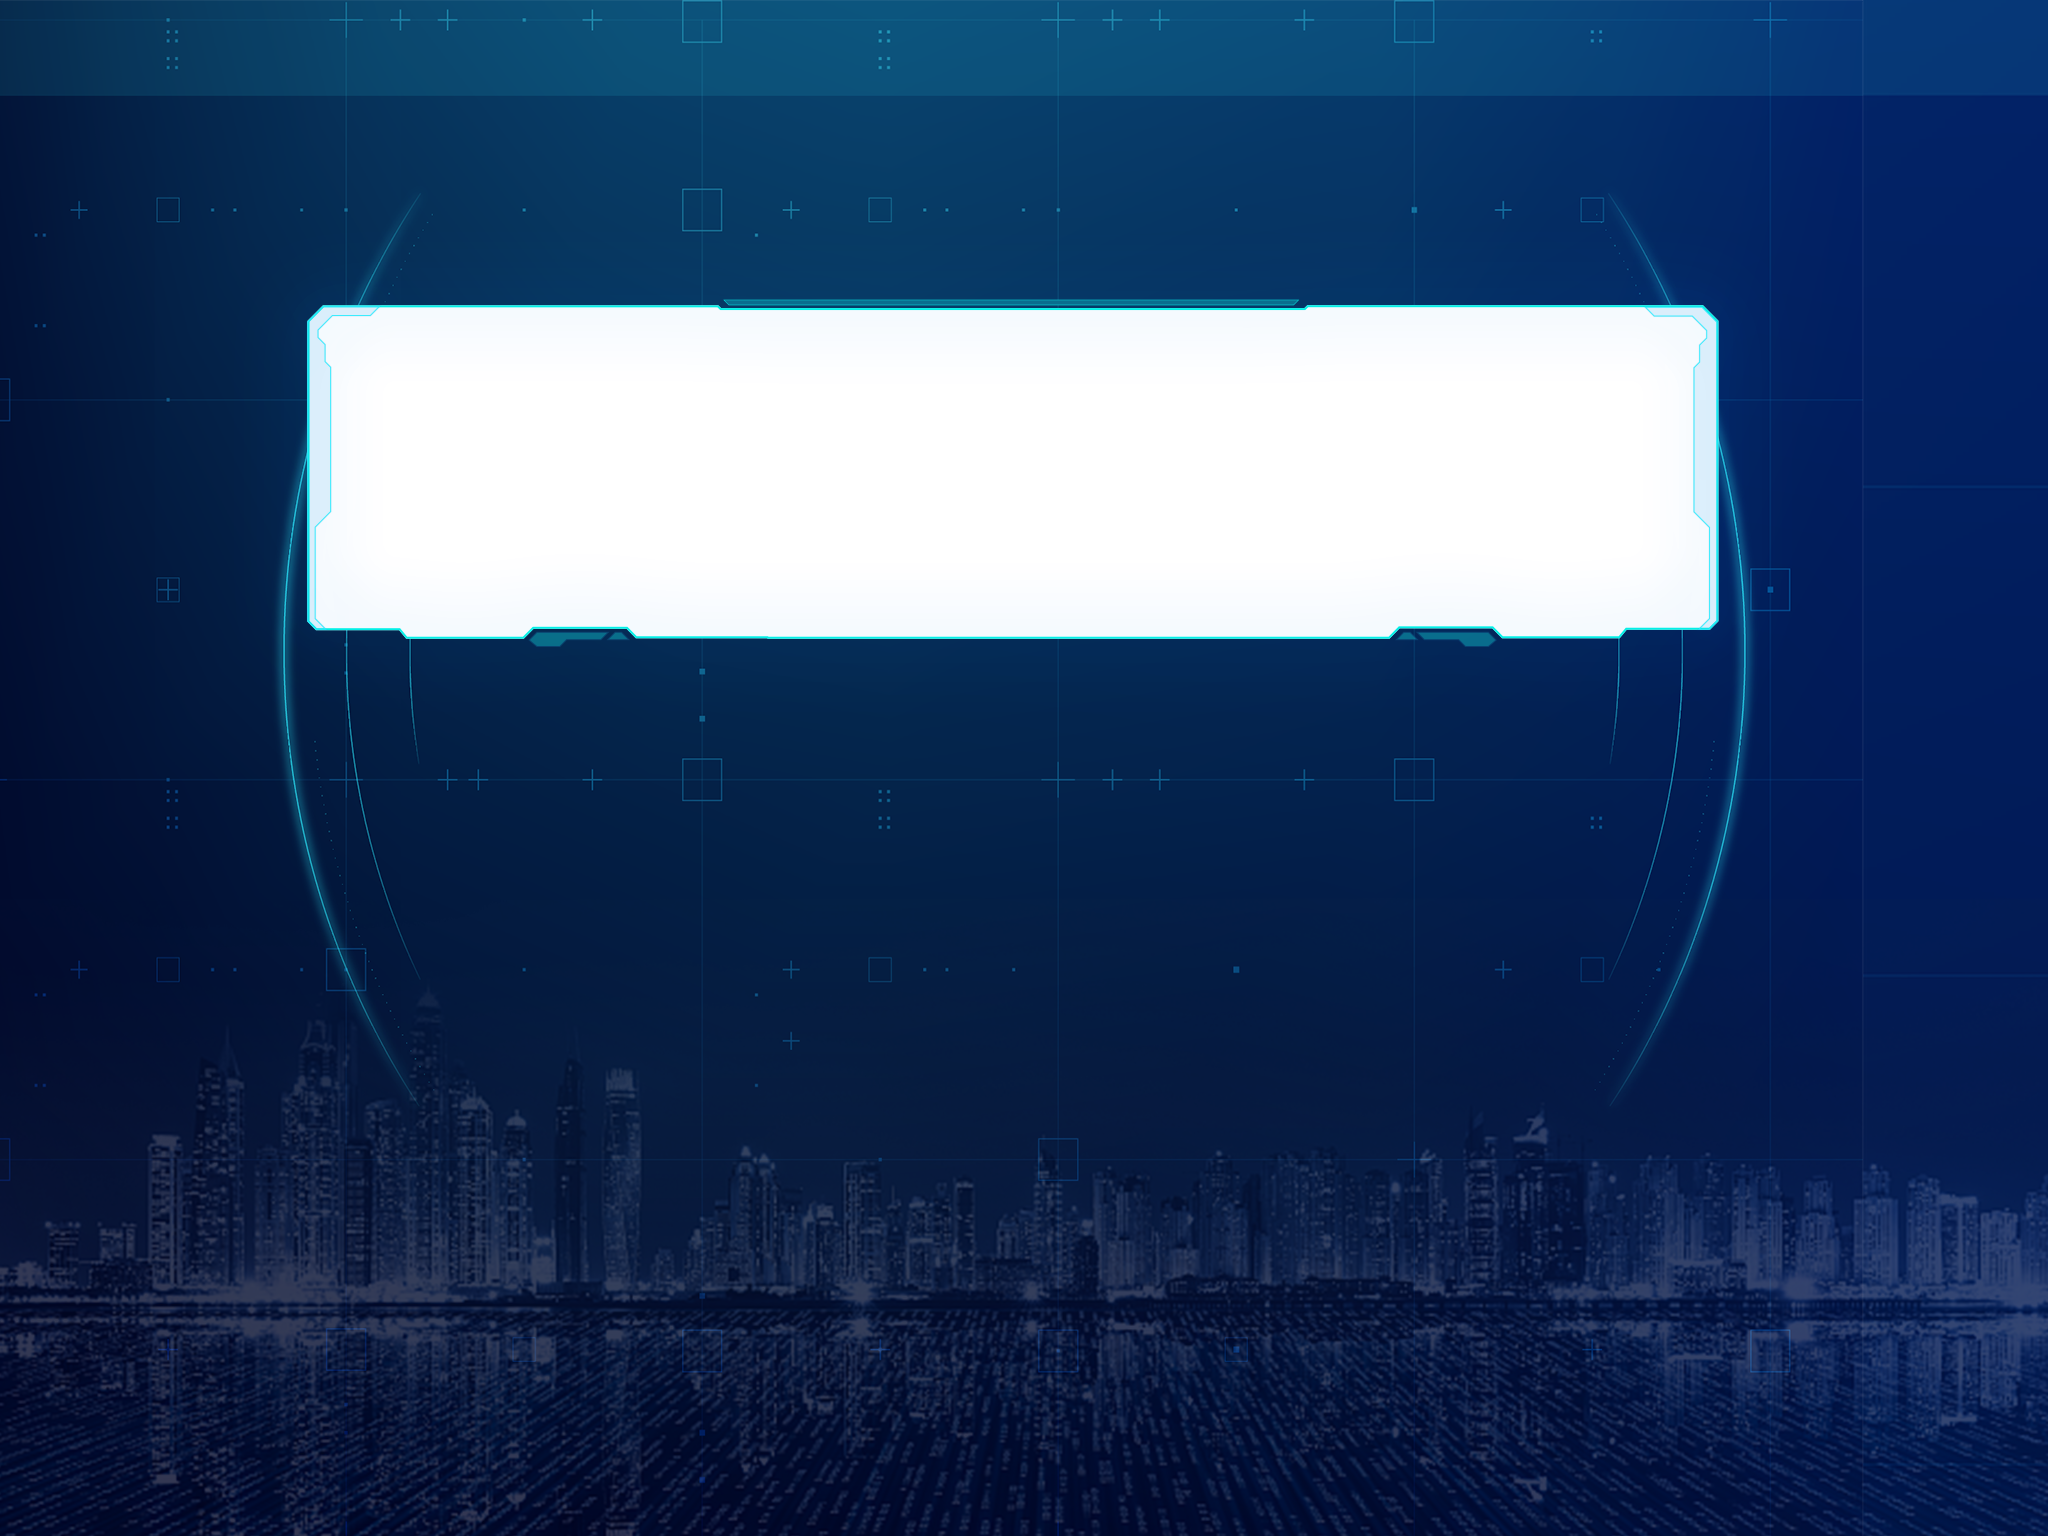
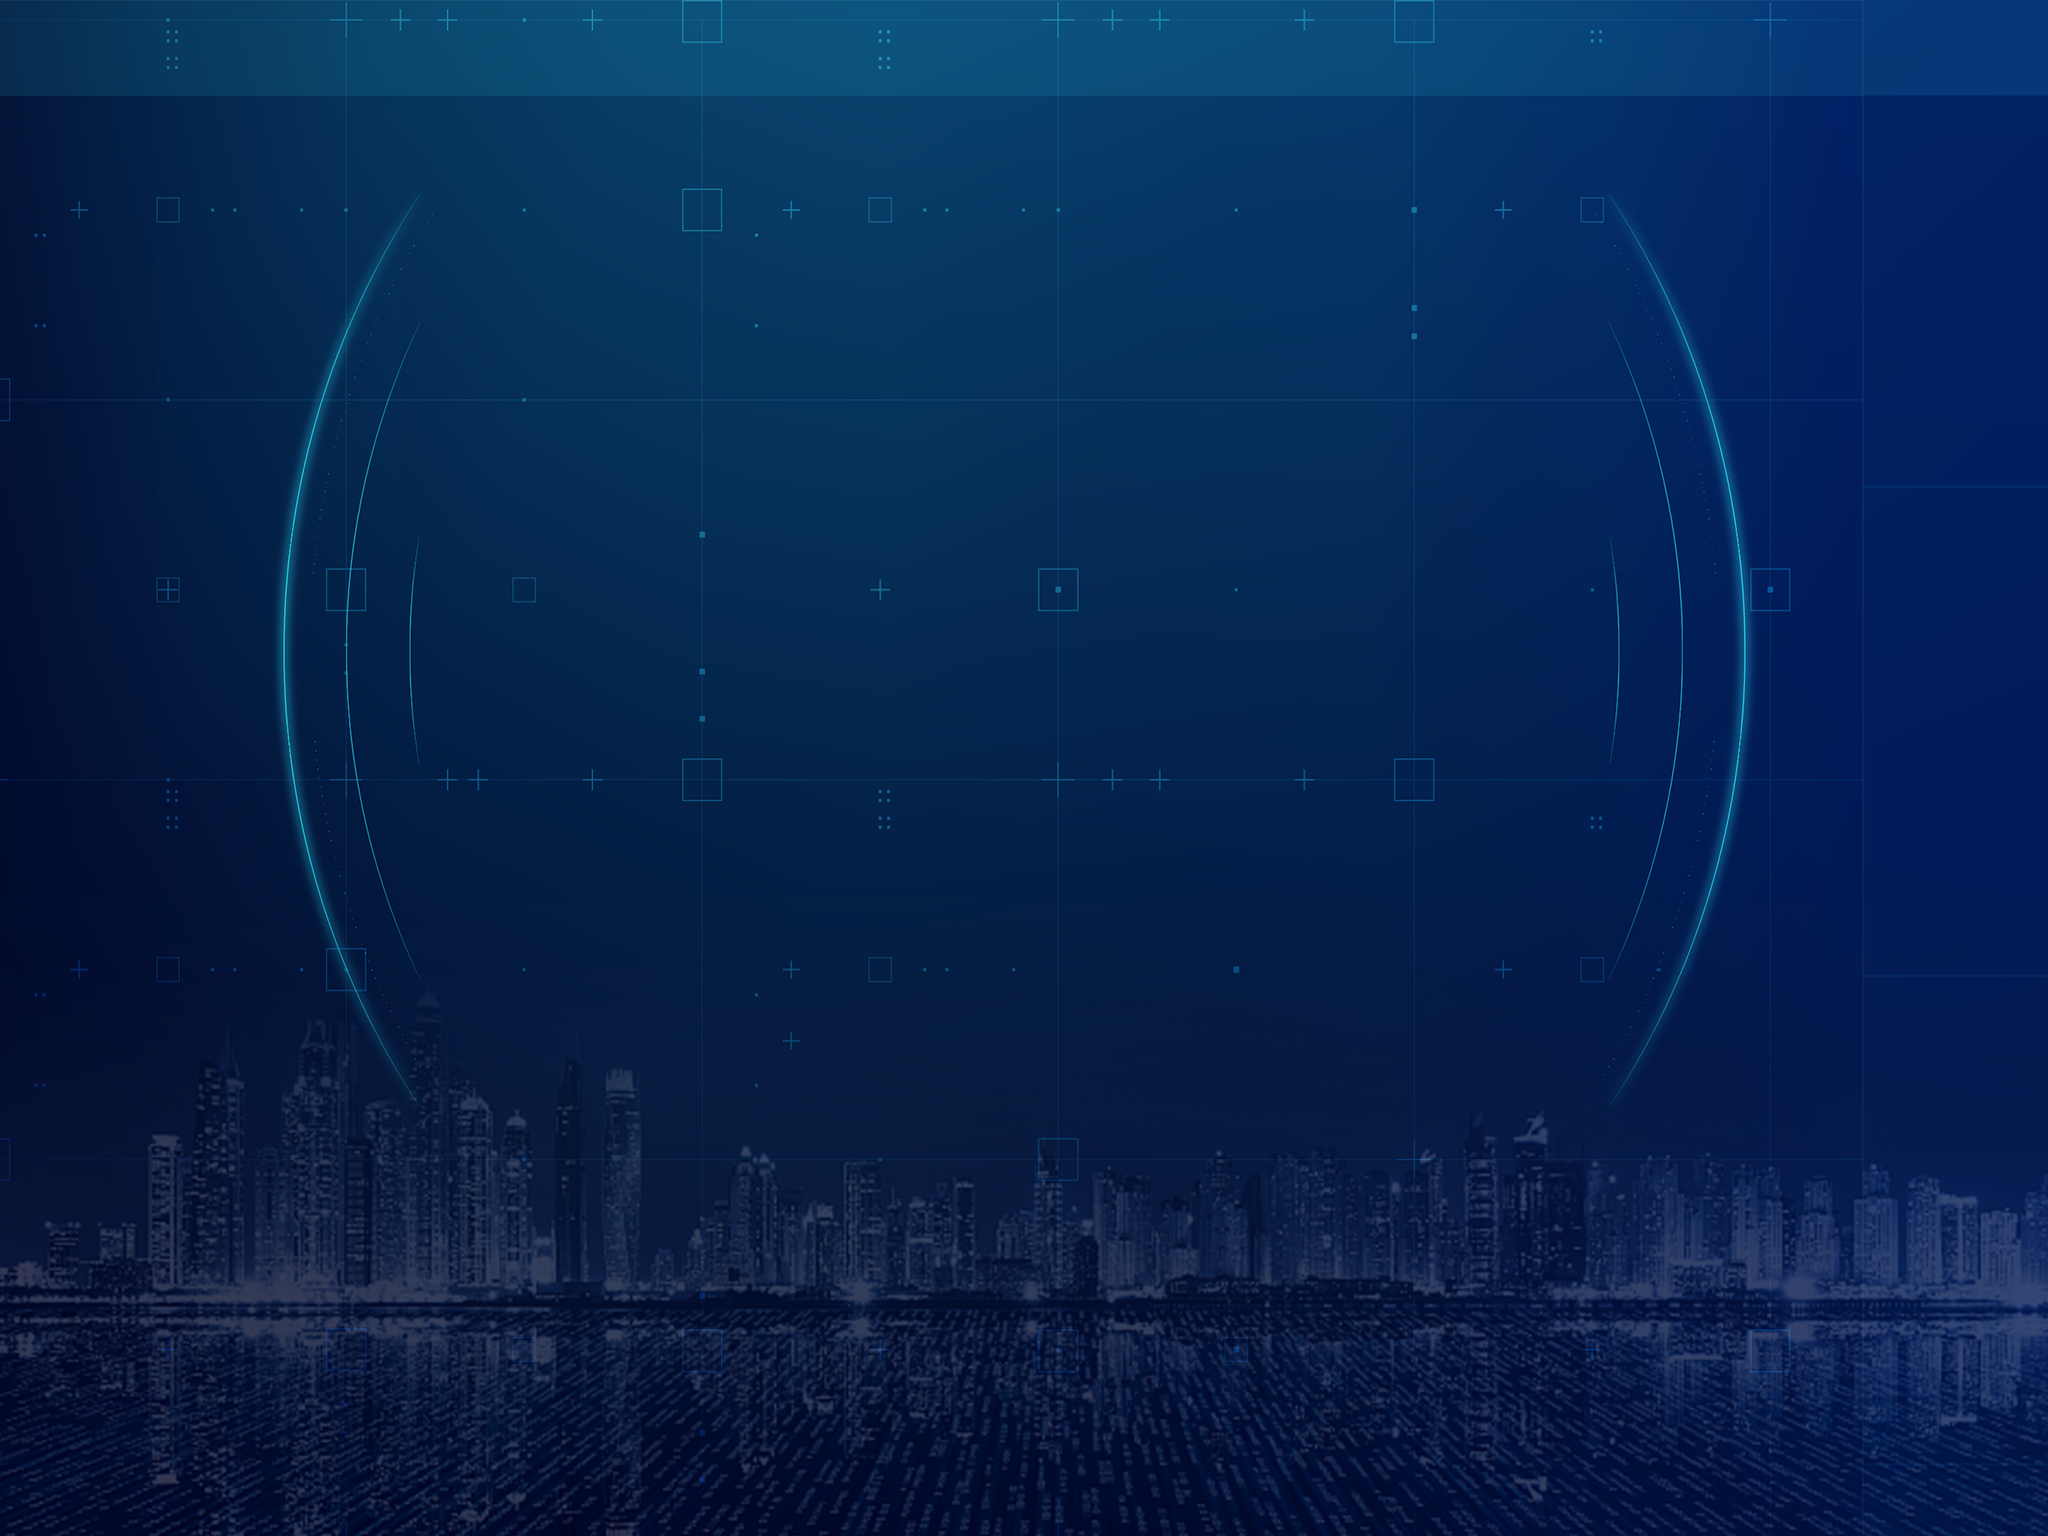
解决pad端样式层叠问题

Changed region(s): [[0.125, 0.1875, 0.8438, 0.4375]]

diff --git a/src/pages/pad/components/PadMain.scss b/src/pages/pad/components/PadMain.scss
@@ -28,45 +28,11 @@
   }
 }
 
-#pad-main{
+#shell-main {
   position: absolute;
   width: 2048px;
   height: 1536px;
-  #main-view {
-    position: absolute;
-    // left: 200px;
-    // top: 0;
-    left: 334px;
-    top: 330px;
-    width: 2000px;
-    height: 450px;
-    // border: 1px solid red;
-    // overflow: hidden;
-    transform: scale(0.779, 1.06);
-    transform-origin: 0 0 0;
-    // background-color: black;
-    z-index: 0;
-    // overflow: hidden;
-    // z-index: 100;
-    // border-image: url("../assets/images/main-view.png") 34 60 40 20 fill stretch;
-    // background: url("../assets/images/main-view.png") no-repeat;
-    // .border-images{
-    //   position: absolute;
-    //   width: 2000px;
-    //   height: 450px;
-    //   background-color: rgba(255,255,255,0.3);
-    //   pointer-events: none;
-    //   background: url("../assets/images/main-view.png") no-repeat;
-    // }
-  }
-
-  #shell-main {
-    position: absolute;
-    width: 2048px;
-    height: 1536px;
-    background: url("../assets/images/bg.png") no-repeat;
-    pointer-events: none;
-  }
+  background: url("../assets/images/bg.png") no-repeat;
 
   .btn1,
   .btn2,
@@ -84,7 +50,7 @@
     // text-align: center;
     transform: scale(0.8);
     opacity: 0.3;
-    // z-index: 200;
+    z-index: 200;
   }
 
   .btn1 {
@@ -164,14 +130,42 @@
     transform: scale(1);
   }
 
-
+  #main-view {
+    position: absolute;
+    // left: 200px;
+    // top: 0;
+    left: 307px;
+    top: 300px;
+    width: 2000px;
+    height: 450px;
+    // border: 1px solid red;
+    // overflow: hidden;
+    // transform: scale(0.779, 1.06);
+    transform: scale(0.705, 0.77);
+    transform-origin: 0 0 0;
+    background-color: black;
+    // overflow: hidden;
+    z-index: 100;
+    // background: url("../assets/images/main-view.png") no-repeat;
+  }
+  #main-view-box{
+    position: absolute;
+    left: 307px;
+    top: 300px;
+    width: 1412px;
+    height: 348px;
+    // background-color: rgba(255,255,255,0.3);
+    pointer-events: none;
+    background: url("../assets/images/main-view-box.png") no-repeat;
+    z-index: 100;
+  }
 
   #sub-view {
     position: absolute;
     // left: 200px;
     // top: 200px;
     left: 334px;
-    top: 880px;
+    top: 820px;
     // width: 600px;
     // height: 200px;
     width: 1339px;
@@ -179,7 +173,6 @@
     // border: 1px solid red;
     background: url("../assets/images/sub-view.png") no-repeat;
     // overflow: hidden;
-    z-index: 100;
     .title {
       position: absolute;
       width: 100%;
@@ -188,27 +181,28 @@
       font-size: 60px;
       line-height: 200px;
       text-align: center;
-      // z-index: -1;
+      z-index: -1;
     }
   }
 
   #edit-btn {
     position: absolute;
     left: 1240px;
-    top: 820px;
-    width: 100px;
-    height: 30px;
-    line-height: 30px;
+    top: 720px;
+    width: 160px;
+    height: 40px;
+    line-height: 40px;
     border: 1px solid red;
+    color: yellow;
     font-size: 12px;
     text-align: center;
-    // z-index: 1000;
+    z-index: 1000;
   }
 
   #drag-in-btn {
     position: absolute;
     left: 880px;
-    top: 810px;
+    top: 710px;
     width: 47px;
     height: 46px;
     // line-height: 30px;
@@ -216,13 +210,13 @@
     // font-size: 12px;
     // text-align: center;
     background: url("../assets/images/arrow-in.png") no-repeat;
-    // z-index: 1000;
+    z-index: 1000;
   }
 
   #drag-out-btn {
     position: absolute;
     left: 1080px;
-    top: 810px;
+    top: 710px;
     width: 47px;
     height: 46px;
     // line-height: 30px;
@@ -230,6 +224,6 @@
     // font-size: 12px;
     // text-align: center;
     background: url("../assets/images/arrow-out.png") no-repeat;
-    // z-index: 1000;
+    z-index: 1000;
   }
 }

diff --git a/src/pages/pad/components/PadMain.vue b/src/pages/pad/components/PadMain.vue
@@ -1,65 +1,64 @@
 <template>
+<div id='shell-main'>
+  <div class='btn1' :class="{activeBtn: activeBtn === 'btn1'}" @click="goTo(1)">
+    <!-- btn1 -->
+  </div>
+  <div class='btn2' :class="{activeBtn: activeBtn === 'btn2'}" @click="goTo(2)">
+    <!-- btn2 -->
+  </div>
+  <div class='btn3' :class="{activeBtn: activeBtn === 'btn3'}" @click="goTo(3)">
+    <!-- btn3 -->
+  </div>
+  <div class='btn4' :class="{activeBtn: activeBtn === 'btn4'}" @click="goTo(4)">
+    <!-- btn4 -->
+  </div>
+  <div class='btn5' :class="{activeBtn: activeBtn === 'btn5'}" @click="goTo(5)">
+    <!-- btn1 -->
+  </div>
+  <div class='btn6' :class="{activeBtn: activeBtn === 'btn6'}" @click="goTo(6)">
+    <!-- btn2 -->
+  </div>
+  <div class='btn7' :class="{activeBtn: activeBtn === 'btn7'}" @click="goTo(7)">
+    <!-- btn3 -->
+  </div>
+  <div class='btn8' :class="{activeBtn: activeBtn === 'btn8'}" @click="goTo(8)">
+    <!-- btn4 -->
+  </div>
+  <div class='btn9' :class="{activeBtn: activeBtn === 'btn9'}" @click="goTo(9)">
+    <!-- btn4 -->
+  </div>
 
-  <div id="pad-main">
-    <div id='sub-view'>
-      <!-- <div class="title">
-        副视图区
-      </div> -->
-    </div>
-    <div id='main-view'>
-      <transition name='switch' appear>
-        <component :is='activeView' mode='pad'></component>
-      </transition>
-      <!-- <div class="border-images"></div> -->
-    </div>
+  <div id='main-view'>
+    <transition name='switch' appear>
+      <component :is='activeView' mode='pad'></component>
+    </transition>
+  </div>
+  <div id="main-view-box"></div>
 
-    <div id='shell-main'></div>
+  <div id='sub-view'>
+    <!-- <div class="title">
+      副视图区
+    </div> -->
+  </div>
 
-    <div class='btn1' :class="{activeBtn: activeBtn === 'btn1'}" @click="goTo(1)">
-      <!-- btn1 -->
+  <div id="edit-btn" @click="enterEditStatus">
+    <div v-if="!editStatus">
+      进入编辑状态
     </div>
-    <div class='btn2' :class="{activeBtn: activeBtn === 'btn2'}" @click="goTo(2)">
-      <!-- btn2 -->
-    </div>
-    <div class='btn3' :class="{activeBtn: activeBtn === 'btn3'}" @click="goTo(3)">
-      <!-- btn3 -->
-    </div>
-    <div class='btn4' :class="{activeBtn: activeBtn === 'btn4'}" @click="goTo(4)">
-      <!-- btn4 -->
-    </div>
-    <div class='btn5' :class="{activeBtn: activeBtn === 'btn5'}" @click="goTo(5)">
-      <!-- btn1 -->
-    </div>
-    <div class='btn6' :class="{activeBtn: activeBtn === 'btn6'}" @click="goTo(6)">
-      <!-- btn2 -->
-    </div>
-    <div class='btn7' :class="{activeBtn: activeBtn === 'btn7'}" @click="goTo(7)">
-      <!-- btn3 -->
-    </div>
-    <div class='btn8' :class="{activeBtn: activeBtn === 'btn8'}" @click="goTo(8)">
-      <!-- btn4 -->
-    </div>
-    <div class='btn9' :class="{activeBtn: activeBtn === 'btn9'}" @click="goTo(9)">
-      <!-- btn4 -->
-    </div>
-
-    <div id="edit-btn" @click="enterEditStatus">
-      <div v-if="!editStatus">
-        进入编辑状态
-      </div>
-      <div v-else>
-        退出编辑状态
-      </div>
-    </div>
-
-    <div id="drag-in-btn" @click="dragInHandler">
-      <!-- 移入副视图 -->
-    </div>
-
-    <div id="drag-out-btn" @click="dragOutHandler">
-      <!-- 移出副视图 -->
+    <div v-else>
+      退出编辑状态
     </div>
   </div>
+
+  <div id="drag-in-btn" @click="dragInHandler">
+    <!-- 移入副视图 -->
+  </div>
+
+  <div id="drag-out-btn" @click="dragOutHandler">
+    <!-- 移出副视图 -->
+  </div>
+
+</div>
 </template>
 
 <script>

diff --git a/src/components/dapinPages/page4.scss b/src/components/dapinPages/page4.scss
@@ -1,7 +1,7 @@
 #page4{
   position: absolute;
-  width: 100%;
-  height: 100%;
+  width: 2000px;
+  height: 450px;
   color: rgba(0, 255, 255, 1);
   border: 1px solid red;
   // background: url('../../assets/images/4.png');
@@ -33,7 +33,7 @@
     border: 1px solid red;
     font-size: 40px;
     text-align: center;
-    // z-index: 100;
+    z-index: 100;
   }
   #module1{
     left: 100px;
